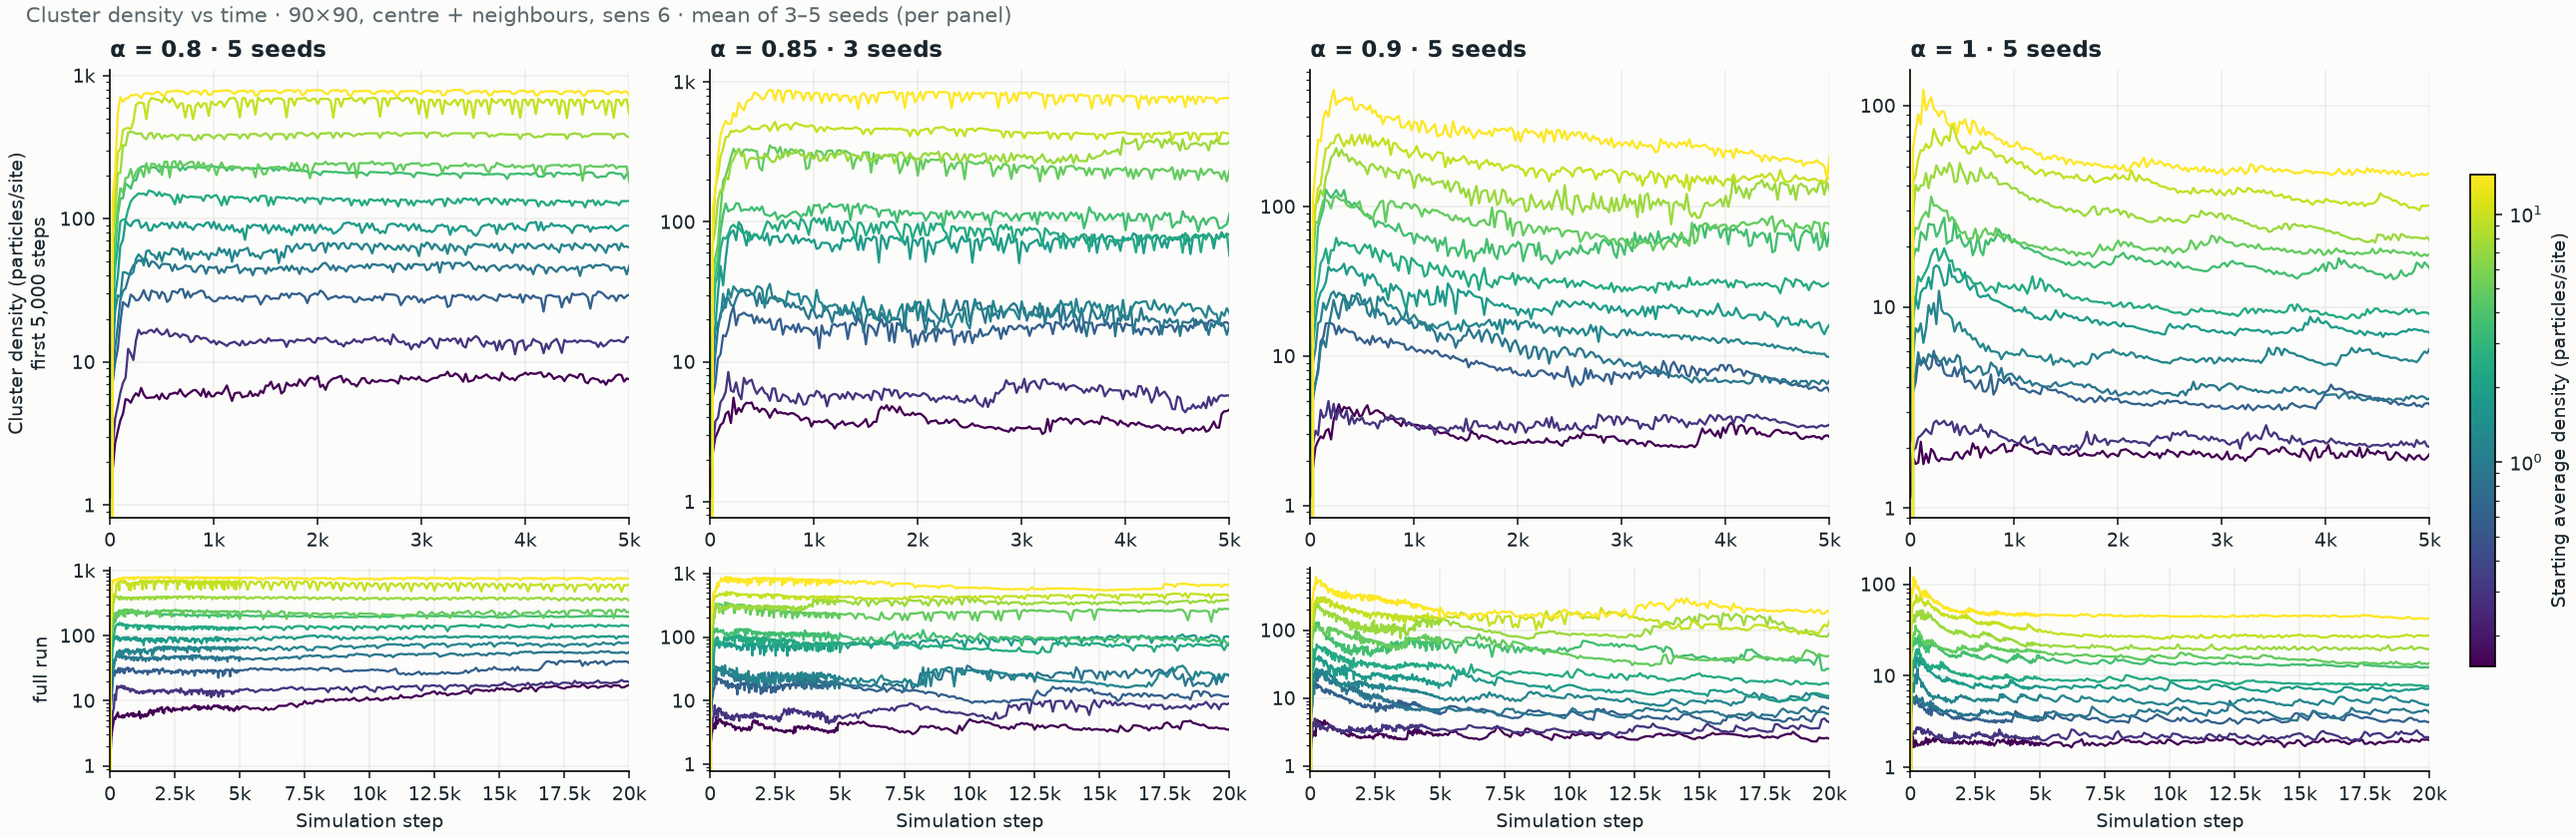
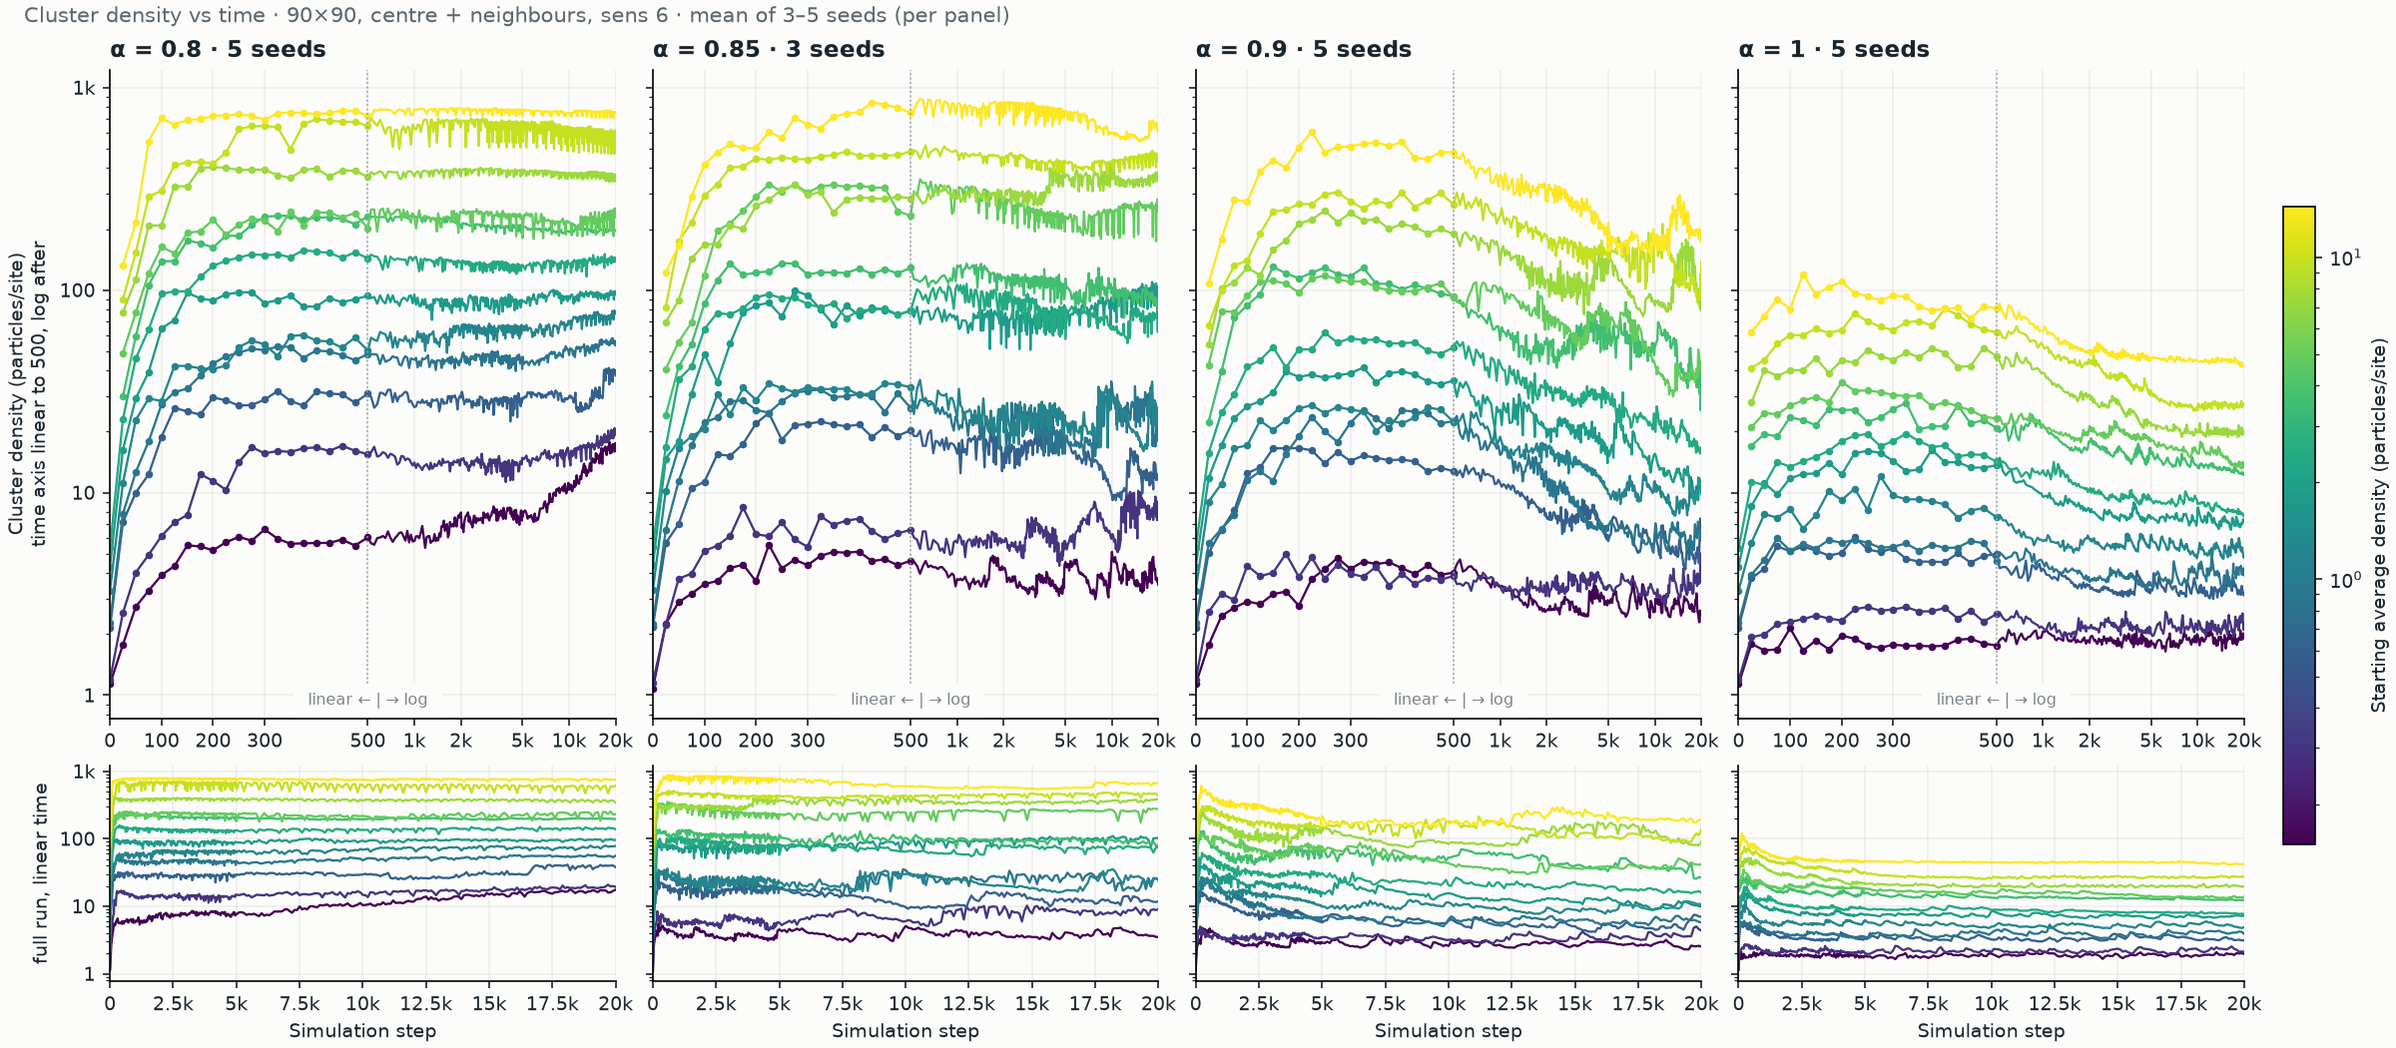
Widen the early rise in the cluster density vs time figure
The top row now uses a time axis that is linear up to step 500 and
logarithmic after it, so the initial growth takes about half of each panel
while the full run stays visible. All panels share one vertical scale.

Changed region(s): [[0.0, 0.0, 1.0, 0.9905], [0.7188, 0.031, 0.8125, 0.0929], [0.5, 0.031, 0.5938, 0.0929]]

diff --git a/results/density-alpha-sweep-2026-09-30/build/figures.py b/results/density-alpha-sweep-2026-09-30/build/figures.py
@@ -241,31 +241,44 @@ def plot_time_grid(alphas, times, curves, densities, seeds, name):
 
 
 def plot_focus(times, curves, densities, seeds):
-    """Four alphas side by side on a linear time axis: first 5,000 steps
-    enlarged above, the full run below."""
+    """Four alphas side by side. Top row: time axis linear up to step 500,
+    logarithmic after, so the early rise and the long run share one panel
+    (dots = saved samples up to step 500). Bottom row: plain linear time."""
     colour, scale = density_colours(densities)
-    fig, axes = plt.subplots(2, len(FOCUS_ALPHAS),
-                             figsize=(4.1 * len(FOCUS_ALPHAS) + 0.8, 5.6),
-                             layout="constrained", squeeze=False,
-                             gridspec_kw={"height_ratios": [2.2, 1]})
+    fig, axes = plt.subplots(2, len(FOCUS_ALPHAS), figsize=(16, 7),
+                             layout="constrained", squeeze=False, sharey=True,
+                             gridspec_kw={"height_ratios": [3, 1]})
+    ticks = [0, 100, 200, 300, 500, 1000, 2000, 5000, 10000, 20000]
     for column, alpha in enumerate(FOCUS_ALPHAS):
+        top, bottom = axes[:, column]
         for dens in densities:
             values = curves[curve_column(alpha, dens)]
-            for ax, stop in zip(axes[:, column], [5000, T]):
-                shown = times <= stop
-                ax.plot(times[shown], values[shown], color=colour[dens], lw=1.1)
-        for ax, stop in zip(axes[:, column], [5000, T]):
+            top.plot(times, values, color=colour[dens], lw=1.1)
+            early = times <= 500
+            top.plot(times[early], values[early], ls="none", marker="o", ms=2.6,
+                     color=colour[dens])
+            bottom.plot(times, values, color=colour[dens], lw=1.1)
+        top.set_xscale("symlog", linthresh=500, linscale=1.5)
+        top.set_xlim(0, T)
+        top.set_xticks(ticks)  # labels come from number_label below
+        top.xaxis.set_minor_formatter(NullFormatter())
+        top.axvline(500, color="#9aa3a7", lw=0.8, ls=":")
+        top.text(500, 0.015, " linear ← | → log ", transform=top.get_xaxis_transform(),
+                 ha="center", va="bottom", fontsize=7.5, color="#7a8488",
+                 backgroundcolor="#fcfcfa")
+        bottom.set_xlim(0, T)
+        bottom.set_xlabel("Simulation step")
+        for ax in (top, bottom):
             ax.set_yscale("log")
-            ax.set_xlim(0, stop)
             ax.grid(alpha=0.18)
             ax.xaxis.set_major_formatter(FuncFormatter(number_label))
             ax.yaxis.set_major_formatter(FuncFormatter(number_label))
             ax.yaxis.set_minor_formatter(NullFormatter())
-        axes[0, column].set_title(f"α = {alpha:g} · {seeds[alpha]} seeds",
-                                  loc="left", fontsize=11, fontweight="bold")
-        axes[1, column].set_xlabel("Simulation step")
-    axes[0, 0].set_ylabel("Cluster density (particles/site)\nfirst 5,000 steps")
-    axes[1, 0].set_ylabel("full run")
+        top.set_title(f"α = {alpha:g} · {seeds[alpha]} seeds",
+                      loc="left", fontsize=11, fontweight="bold")
+    axes[0, 0].set_ylabel("Cluster density (particles/site)\n"
+                          "time axis linear to 500, log after")
+    axes[1, 0].set_ylabel("full run, linear time")
     fig.colorbar(scale, ax=axes, shrink=0.7, pad=0.01).set_label(
         "Starting average density (particles/site)")
     fig.suptitle("Cluster density vs time · 90×90, centre + neighbours, sens 6 · "
@@ -315,8 +328,12 @@ def draw_figures():
 
     table = read_csv(TIME_CSV)
     times = np.array([int(row["t"]) for row in table])
+    # A cluster density of 0 means no site passed the cutoff (only at t = 0 for
+    # the densest starts); leave those points out rather than plot log(0).
     curves = {name: np.array([float(row[name]) for row in table])
               for name in table[0] if name != "t"}
+    curves = {name: np.where(values > 0, values, np.nan)
+              for name, values in curves.items()}
 
     box_rows = [{key: float(value) for key, value in row.items()}
                 for row in read_csv(BOX_CSV)]

diff --git a/results/density-alpha-sweep-2026-09-30/README.md b/results/density-alpha-sweep-2026-09-30/README.md
@@ -8,7 +8,7 @@ L = 90, 120, 180, 240, seeds 12345, 777 and 424242.
 
 | File | Contents |
 |---|---|
-| `figures/focus-transition-t20000-prelim.png` | Cluster density vs time at alpha 0.8, 0.85, 0.9, 1; first 5,000 steps above, full run below |
+| `figures/focus-transition-t20000-prelim.png` | Cluster density vs time at alpha 0.8, 0.85, 0.9, 1. Top: time axis linear up to step 500 and logarithmic after, so the early rise is wide; bottom: full run on a linear axis |
 | `figures/grid-time-t20000-prelim.png` | The same curves for alpha 0 to 1 in steps of 0.1 (log–log axes) |
 | `figures/grid-time-refine-t20000-prelim.png` | The same curves for alpha 0.75 to 1 in finer steps |
 | `figures/condensate-vs-box-size-t20000.png` | Late condensate size N_c against box side |
